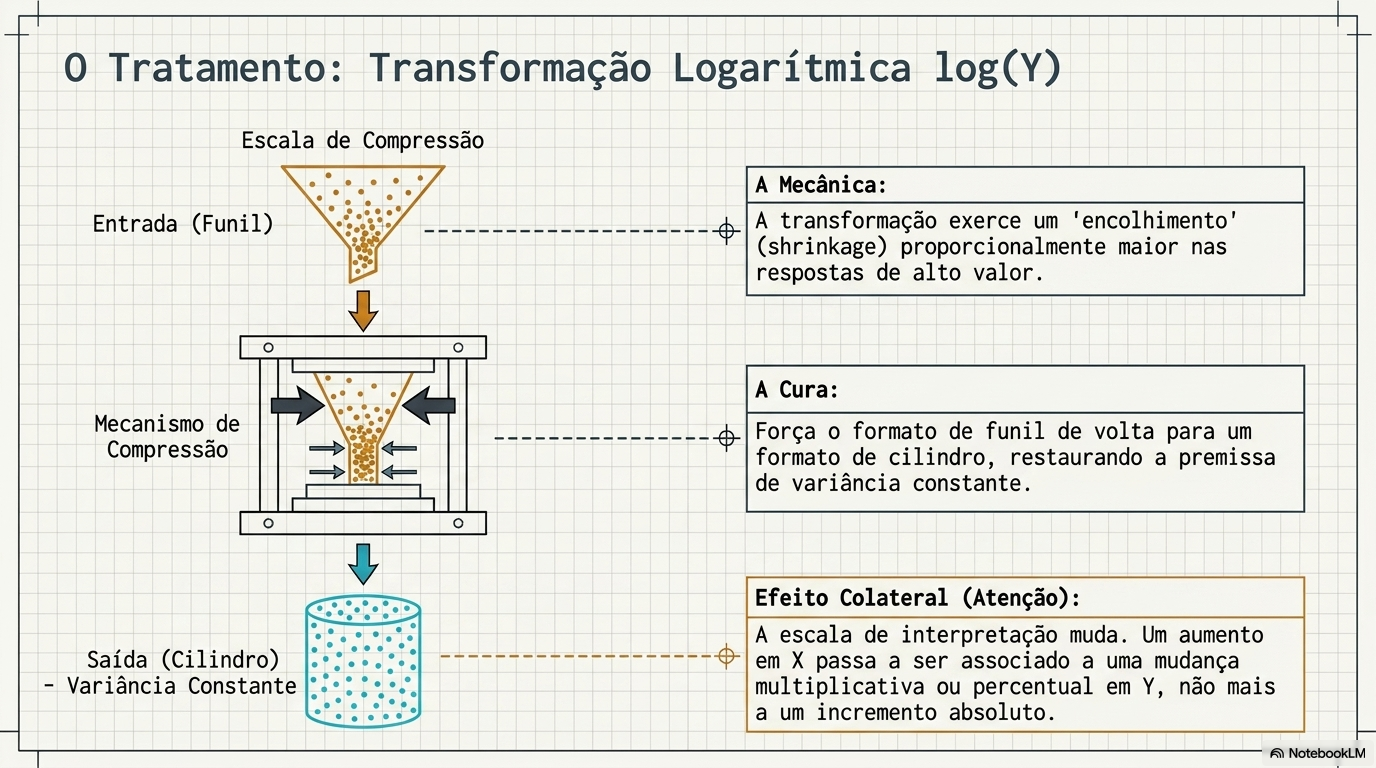
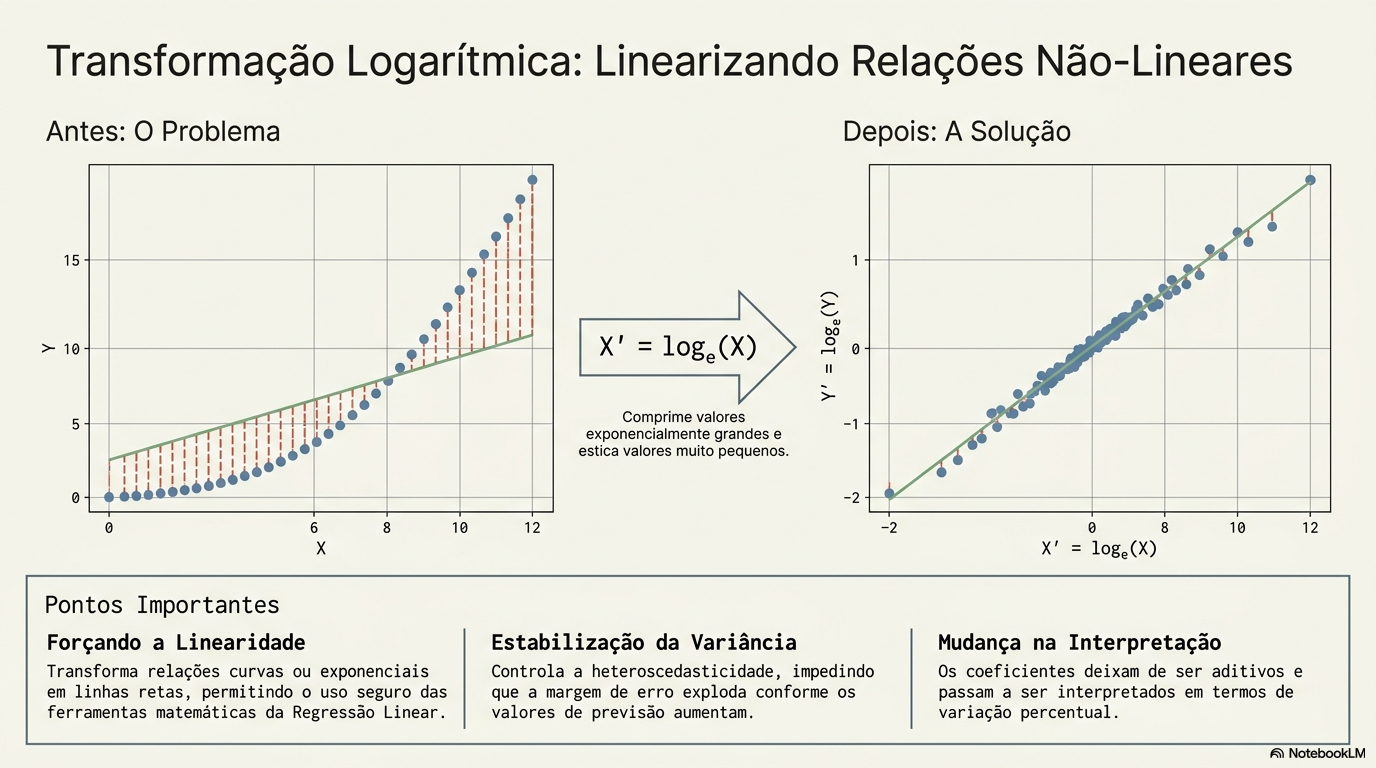
Att Resumos

diff --git a/Resumos/Sabatina/1 - Modelos Lineares.md b/Resumos/Sabatina/1 - Modelos Lineares.md
@@ -27,17 +27,19 @@ Como lidar com as desvantagens
 - Transformação Log
 - Remoção de Outliers
 
+![Gráfico](img/Regressao_linear.png)
 
 ---
 # Pontos cobertos pelo questionario abaixo:
 - Premissas da Regressão Linear ✅
+- Como identificar Homocedasticidade/ Heterocedasticidade ✅
+- Transformação Logarítmica ✅
 - Diferenças entre Regressão Linear x Regressão Logistica ✅
-- Por que modelos Lineares precisam de Normalização dos Dados ✅
+- Multicolinearidade ✅
+- Calculo de VIF ✅
 - Tecnicas de Regularização: Lasso (L1), Ridge (L2) e Elastic Net ✅
-- Transformação Logarítmica
-- Multicolinearidade 
-- Calculo de VIF
-- Como identificar Homocesticidade/ Heterocedasticidade 
+- Por que modelos Lineares precisam de Normalização dos Dados ✅
+
 
 ---
 # Perguntas e respostas:
@@ -75,8 +77,23 @@ Como tratar:
 
 ![Gráfico](img/RL_Homocedasticidade.png)
 
-## Tranformação Log.
+## Tranformação Logaritmica.
+A transformação logarítmica é usada para comprimir valores muito altos, reduzir assimetria e estabilizar a variância dos dados. Ela transforma relações multiplicativas em relações mais lineares, ajudando a reduzir heterocedasticidade e aproximar a distribuição de uma normal. É muito usada em variáveis com cauda longa, como renda, faturamento e preços
 
+A ideia intuitiva é:
+- diferenças absolutas grandes passam a virar diferenças relativas;
+- valores extremos perdem impacto;
+- distribuições muito assimétricas ficam mais próximas de uma normal.
+
+Quando NÃO usar log?
+- dados já simétricos;
+- presença forte de negativos;
+- quando interpretabilidade linear é importante;
+- modelos de árvore normalmente precisam menos disso.
+
+Impacto na interpretação do Modelo:
+- Sem log: Aumento unitário é linear
+- Com Log: Interpretação vira percentual/ aproximadamente multiplicativa. Um aumento no coeficiente passa a representar mudança percentual aproximada.
 
 ![Gráfico](img/RL_Tranform_log.png)
 
@@ -90,17 +107,32 @@ Não usamos regressão linear para classificação porque ela pode prever valore
 
 A regressão logística utiliza máxima verossimilhança e log loss, o que torna o modelo mais adequado para estimar probabilidades e tomar decisões de classificação.
 
+## O que é multicolinearidade e por que ela é um problema em modelos lineares?
+Multicolinearidade ocorre quando duas ou mais variáveis explicativas são altamente correlacionadas entre si, ou seja, carregam informação redundante.
 
-## Por que modelos lineares precisam de normalização, mas árvores normalmente não precisam?
-Modelos lineares precisam de normalização porque eles são sensíveis à escala das variáveis.
+Em modelos lineares isso é um problema porque dificulta a estimação dos coeficientes, tornando-os instáveis e sensíveis a pequenas variações nos dados. Isso aumenta a variância do modelo e prejudica a interpretabilidade, pois fica difícil separar o efeito individual de cada variável.
 
-Quando as variáveis têm magnitudes muito diferentes, como salário e idade, por exemplo, o modelo pode acabar dando mais peso para a variável com valores maiores, porque os coeficientes são calculados levando em conta essa escala.
+Técnicas como regularização L1 e L2 ajudam a reduzir esse problema, penalizando os coeficientes e estabilizando o modelo.
 
-Além disso, métodos de otimização e regularização, como L1 e L2, também são influenciados pela escala, então a padronização ou normalização ajuda o modelo a convergir melhor e evita distorções.
+![Gráfico](img/RL_multicolinearidade.png)
 
-Já as árvores de decisão não precisam de normalização porque elas não fazem cálculo baseado em distância ou coeficiente, elas apenas testam divisões usando thresholds, como maior ou menor que um valor.
 
-Como a divisão é feita por comparação, a escala da variável não influencia o resultado, então árvores conseguem lidar bem com variáveis em escalas diferentes.
+## Como validar multicolinearidade com calculo de VIF?
+O VIF é uma métrica usada para detectar multicolinearidade entre variáveis explicativas em modelos lineares. Ele mede o quanto a variância de um coeficiente está sendo “inflada” por causa da correlação entre preditores.
+
+O VIF é uma métrica usada para medir multicolinearidade entre variáveis explicativas. Ele avalia o quanto a variância de um coeficiente está inflada devido à correlação com outras features. Valores altos de VIF indicam que a variável pode ser fortemente explicada pelas demais, tornando os coeficientes instáveis e prejudicando principalmente a interpretação estatística do modelo.
+
+Como Tratar variaveis correlacionadas:
+- Remoção de uma das variaveis com alta correlação
+- Criar uma feature unica: Combinando features muito correlacionadas
+- Utilizar tecnica de PCA
+
+Limitação importante do VIF
+- funciona principalmente para modelos lineares;
+- avalia relação linear entre features;
+- não captura relações não lineares complexas.
+
+![Gráfico](img/RL_VIF.png)
 
 
 ## Lasso x Ridge
@@ -156,11 +188,13 @@ Já na regularização L1, a penalização é feita com o valor absoluto dos coe
 Existe um hiperparâmetro, geralmente chamado lambda ou alpha, que controla a força da penalização. Quanto maior a penalização, menor a variância e maior o viés, então a regularização ajuda a evitar overfitting controlando a complexidade do modelo.
 
 
-## O que é multicolinearidade e por que ela é um problema em modelos lineares?
-Multicolinearidade ocorre quando duas ou mais variáveis explicativas são altamente correlacionadas entre si, ou seja, carregam informação redundante.
+## Por que modelos lineares precisam de normalização, mas árvores normalmente não precisam?
+Modelos lineares precisam de normalização porque eles são sensíveis à escala das variáveis.
 
-Em modelos lineares isso é um problema porque dificulta a estimação dos coeficientes, tornando-os instáveis e sensíveis a pequenas variações nos dados. Isso aumenta a variância do modelo e prejudica a interpretabilidade, pois fica difícil separar o efeito individual de cada variável.
+Quando as variáveis têm magnitudes muito diferentes, como salário e idade, por exemplo, o modelo pode acabar dando mais peso para a variável com valores maiores, porque os coeficientes são calculados levando em conta essa escala.
 
-Técnicas como regularização L1 e L2 ajudam a reduzir esse problema, penalizando os coeficientes e estabilizando o modelo.
+Além disso, métodos de otimização e regularização, como L1 e L2, também são influenciados pela escala, então a padronização ou normalização ajuda o modelo a convergir melhor e evita distorções.
 
+Já as árvores de decisão não precisam de normalização porque elas não fazem cálculo baseado em distância ou coeficiente, elas apenas testam divisões usando thresholds, como maior ou menor que um valor.
 
+Como a divisão é feita por comparação, a escala da variável não influencia o resultado, então árvores conseguem lidar bem com variáveis em escalas diferentes.

diff --git a/Resumos/Sabatina/2 - Modelos Baseado em Arvores e Ensembles.md b/Resumos/Sabatina/2 - Modelos Baseado em Arvores e Ensembles.md
@@ -35,10 +35,16 @@ Os métodos baseados em árvores envolvem a estratificação ou segmentação do
 - Sensibilidade das arvores a sofrerem com overfiting e como Random Forrest lida ✅
 - Como é medido o corte das arvores, com metricas de Gini e Entropia ✅
 - Tecnicas de Pre e Pos Poda ✅
-- 
+    - Ajuste de Hiperparametros ✅
 
-
-
+Ensemble (Random Forrest + Tecnica de Bagging x Boosting)
+- Como funciona a contrução do Random Forrest com tecnica de Bagging ✅
+- Como Random Forrest lida com o Overfiting ✅
+- O que é o OOB (Out Of Bag) ✅
+- O que é o Learning Rate no Boosting ✅
+- Quais as principais diferenças entre Bagging x Boosting ✅
+- Por que o Boosting é sensivel ao Overfiting ✅
+- Relação Vies Variancia nos modelos Ensemble ✅
 
 ---
 # Árvores 

diff --git a/Resumos/Sabatina/0 - EDA.md b/Resumos/Sabatina/0 - EDA.md
@@ -1,5 +1,15 @@
 # EDA
 
+---
+# Pontos cobertos pelo questionario abaixo:
+- Oque é um outlier ✅
+- Tipos de gráficos x tipo de variavel ✅
+- Tipos de ˜Missings˜ (MCAR, MAR e MNAR) ✅
+- Medidas de Centralidade ✅
+- Distribuição Assimetrica ✅
+- Analise de variaveis Categoricas e Numericas ✅
+
+---
 ## Explique como você começa um EDA do zero em uma base nova.
 No início do EDA eu faço o entendimento do dataset, olhando colunas, tipos (numéricas, categóricas, datas), quantidade de linhas e identificando o target e a granularidade dos dados.
 
